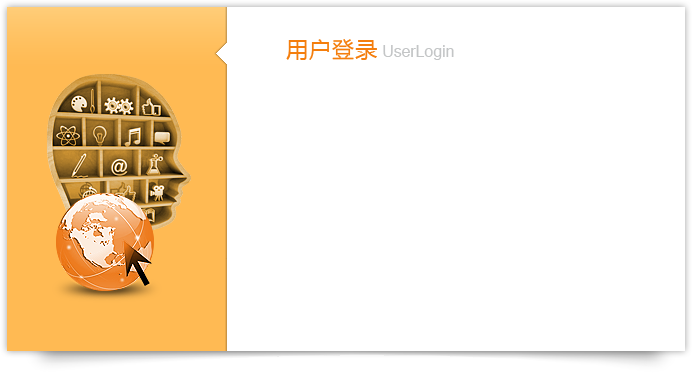
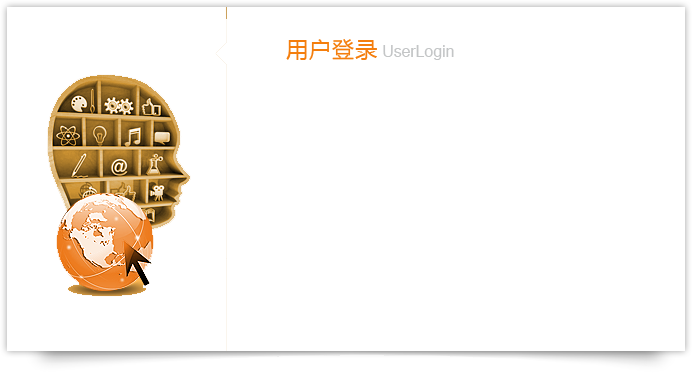
更改颜色

Changed region(s): [[0.0, 0.0, 0.3338, 0.9437]]

diff --git a/WEB/css/style.css b/WEB/css/style.css
@@ -1,10 +1,6 @@
 @charset "utf-8";
 /* CSS Document */
-/***
- * uimaker
- * http://www.uimaker.com
- * e-mail: admin@uimaker.com
- */
+
 *{font-size:9pt;border:0;margin:0;padding:0;}
 body{font-family:'微软雅黑'; margin:0 auto;min-width:980px;}
 ul{display:block;margin:0;padding:0;list-style:none;}
@@ -41,7 +37,7 @@ h2{font-weight:normal;}
 .loginbox ul li label a:hover{color:#f0580c;}
 .loginbox ul li label input{margin-right:5px;}
 .loginbox,.loginbox1,.loginbox2,.loginbox3,.loginbox4{width:692px; height:373px;margin-top:30px;}
-.loginuser{width:299px; height:48px; background:url(../images/loginuser.png) no-repeat; border:none; line-height:48px; padding-left:44px; font-size:14px; font-weight:bold;}
+.loginuser{width:299px; height:48px; background:url(../images/loginuser.png) no-repeat; border:none; line-height:80px; padding-left:44px; font-size:14px; font-weight:bold;}
 .loginpwd{width:299px; height:48px; background:url(../images/loginpassword.png) no-repeat; border:none;line-height:48px; padding-left:44px; font-size:14px; color:#de9852;}
 .loginbtn{width:111px;height:35px; background:url(../images/buttonbg.png) repeat-x; font-size:14px; font-weight:bold; color:#fff;cursor:pointer; line-height:35px;}
 .loginbm{height:50px; line-height:50px; text-align:center; background:url(../images/loginbg2.png) repeat-x;position:absolute; bottom:0; width:100%; color:#fff8f5;}

diff --git a/WEB/Login.html b/WEB/Login.html
@@ -29,8 +29,8 @@
 
             <form action="UserServlet?method=login" method="post" name="login">
         	    <ul>
-        	    <li><input id="user_name" name="user_name" type="text" class="loginuser" value="admin" onclick="JavaScript:this.value=""/>用户名</li>
-        	    <li><input id="user_password" name="user_password" type="password" class="loginpwd" value="密码" onclick="JavaScript:this.value=""/>密码</li>
+        	    <li><input id="user_name" name="user_name" type="text" class="loginuser" value="admin" onclick="JavaScript:this.value=""/></li>
+        	    <li><input id="user_password" name="user_password" type="password" class="loginpwd" value="密码" onclick="JavaScript:this.value=""/></li>
         	    <li><input id="submit" name="submit" type="submit" class="loginbtn" value="登录"  />
         		<label><input id="remember" name="remember" type="checkbox" value="" checked="checked" />记住密码</label>
         		<label><a href="#">忘记密码？</a></label></li>
